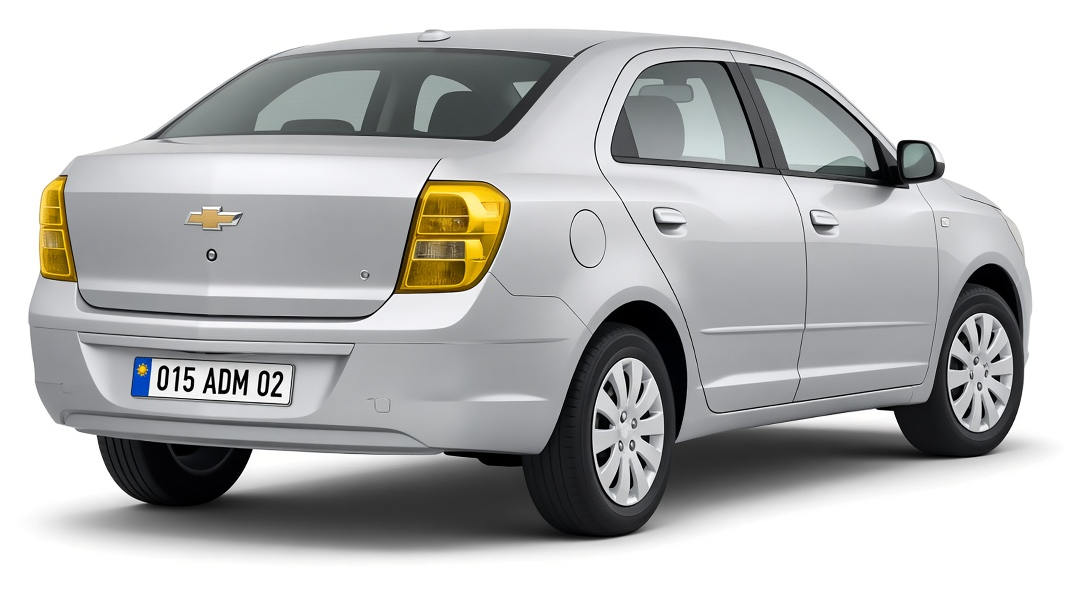
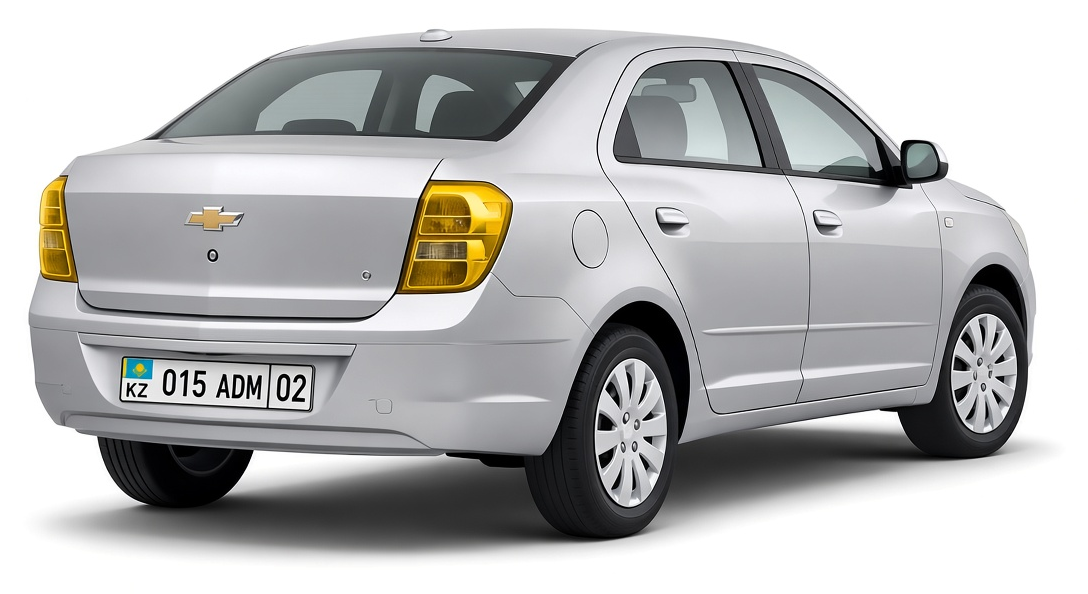
Казахстанский номер и понятный второй кадр камеры
Знак: флаг и KZ слева, код региона справа. Жёлтая полоса говорит,
что штраф 21 625 ₸ появился в системе, а не что снимок куда-то ушёл.

diff --git a/features/fines/index.html b/features/fines/index.html
@@ -272,7 +272,7 @@
         <img class="camplay__carpic" src="../../assets/img/cam-car.png" width="1086" height="593" alt="Chevrolet Cobalt · 2022">
       </div>
       <div class="camplay__reason">Превышение скорости</div>
-      <div class="camplay__sent">Снимок отправлен в систему</div>
+      <div class="camplay__sent">Штраф 21 625 ₸ появился в системе</div>
     </div>
     <div class="camplay__card">
       <div class="camplay__head">

diff --git a/kk/index.html b/kk/index.html
@@ -358,7 +358,7 @@
         <img class="camplay__carpic" src="../assets/img/cam-car.png" width="1086" height="593" alt="Chevrolet Cobalt · 2022">
       </div>
       <div class="camplay__reason">Превышение скорости</div>
-      <div class="camplay__sent">Снимок отправлен в систему</div>
+      <div class="camplay__sent">Штраф 21 625 ₸ появился в системе</div>
     </div>
     <div class="camplay__card">
       <div class="camplay__head">

diff --git a/index.html b/index.html
@@ -358,7 +358,7 @@
         <img class="camplay__carpic" src="./assets/img/cam-car.png" width="1086" height="593" alt="Chevrolet Cobalt · 2022">
       </div>
       <div class="camplay__reason">Превышение скорости</div>
-      <div class="camplay__sent">Снимок отправлен в систему</div>
+      <div class="camplay__sent">Штраф 21 625 ₸ появился в системе</div>
     </div>
     <div class="camplay__card">
       <div class="camplay__head">

diff --git a/build.py b/build.py
@@ -1411,7 +1411,7 @@ def fines_scene(R=''):
         <img class="camplay__carpic" src="{R}assets/img/cam-car.png" width="1086" height="593" alt="Chevrolet Cobalt · 2022">
       </div>
       <div class="camplay__reason">Превышение скорости</div>
-      <div class="camplay__sent">Снимок отправлен в систему</div>
+      <div class="camplay__sent">Штраф 21 625 ₸ появился в системе</div>
     </div>
     <div class="camplay__card">
       <div class="camplay__head">
